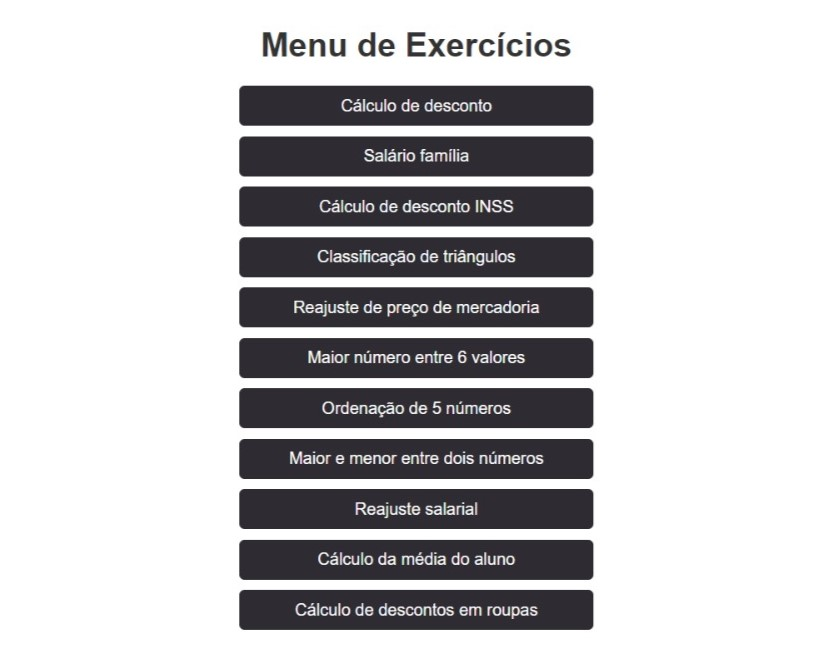
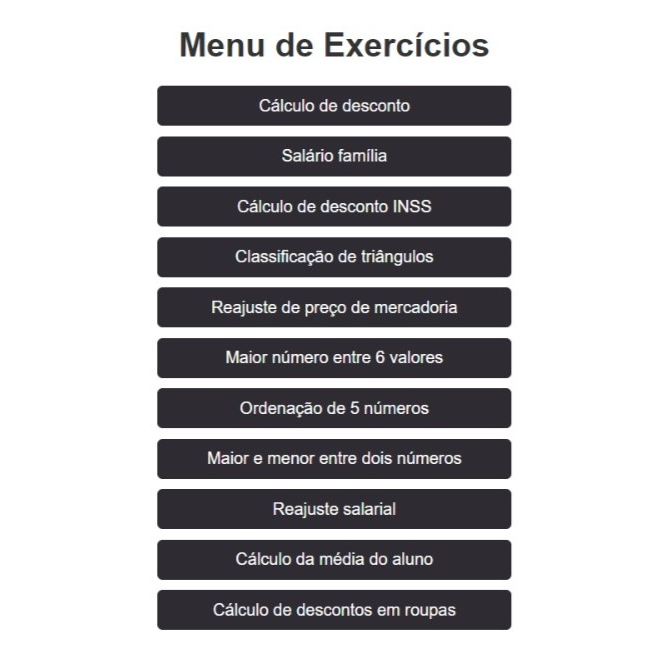
atualiz

diff --git a/index.html b/index.html
@@ -39,8 +39,8 @@
                 </a>
             </div>
             <div class="projeto">
-                <a href="#">
-                    <img src="projeto2.png" alt="Projeto 2">
+                <a href="https://lailacm.github.io/web-aula03-ui-ux/">
+                    <img src="img/projeto2.png" alt="Projeto 2">
                     <h3>Projeto 2</h3>
                 </a>
             </div>
@@ -68,13 +68,13 @@
                     <a href="mailto:lailacmacedo07@gmail.com">lailacmacedo07@gmail.com</a>
                 </div>
             </div>
-            <div class="contato-item">
+            <!-- <div class="contato-item">
                 <i class="fas fa-phone"></i>
                 <div>
                     <h3>Telefone:</h3>
                     <a href="https://wa.me/qr/J5G37GASZRD5E1">(19)98995-0515</a>
                 </div>
-            </div>
+            </div> -->
             <div class="contato-item">
                 <i class="fab fa-linkedin"></i>
                 <div>
@@ -82,6 +82,14 @@
                     <a href="https://www.linkedin.com/in/laila-casadei-macêdo-594208287/">LinkedIn</a>
                 </div>
             </div>
+            <div class="contato-item">
+                <i class="fab fa-github"></i>
+                <div>
+                    <h3>GitHub:</h3>
+                    <a href="https://github.com/LailaCM">LailaCM</a>
+                </div>
+            </div>
+        </div>
         </div>
     </section>
 

diff --git a/style.css b/style.css
@@ -78,12 +78,11 @@ body {
 }
 
 header {
-    background: #3c0078;
+    background: linear-gradient(to right, #462659, #8a64bc);
     color: #fff;
     padding: 2vh 0;
     text-align: center;
 }
-
 header h1 {
     margin: 0;
 }
